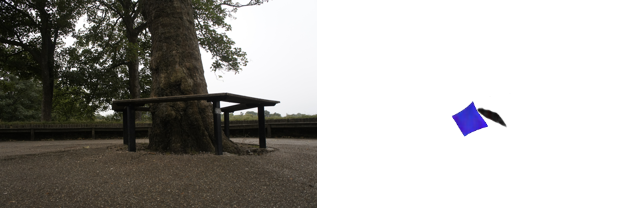
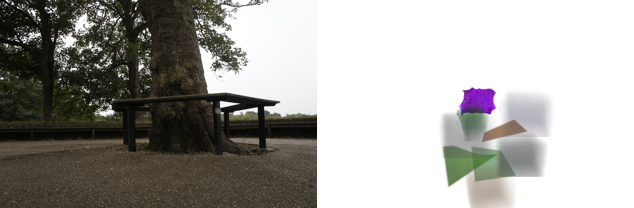
partial implementation

Changed region(s): [[0.6893, 0.4038, 0.8691, 1.0]]

diff --git a/gaussian_splatting_copy/neural_lifecycle.py b/gaussian_splatting_copy/neural_lifecycle.py
@@ -403,14 +403,21 @@ def split_top_slices(
     mode_selector=None,
 ):
     """
-    Split the highest-scoring slices.
+    Split highest-scoring parent slices.
 
-    Parent is removed and replaced by two smaller children.
+    Each selected parent is replaced by two children.
+    Every non-selected slice is preserved.
 
     Returns:
-        list of indices that were split
+        selected: list of original parent indices that were split.
     """
-    if len(neural_scene.slices) >= max_total_slices:
+    old_slices = list(neural_scene.slices)
+    num_old_slices = len(old_slices)
+
+    if num_old_slices == 0:
+        return []
+
+    if num_old_slices >= max_total_slices:
         return []
 
     scores = score_slices_for_split(
@@ -420,57 +427,96 @@ def split_top_slices(
         min_patch_size=min_patch_size,
     )
 
-    ranked = sorted(
+    ranked_indices = sorted(
         range(len(scores)),
-        key=lambda i: scores[i],
+        key=lambda index: scores[index],
         reverse=True,
+    )
+
+    # Each parent replaced by two children adds one net slice.
+    available_splits = max_total_slices - num_old_slices
+    num_to_select = min(
+        int(max_splits),
+        available_splits,
     )
 
     selected = []
 
-    available_splits = min(
-        max_splits,
-        max_total_slices - len(neural_scene.slices),
-    )
-
-    for i in ranked:
-        if len(selected) >= available_splits:
+    for index in ranked_indices:
+        if len(selected) >= num_to_select:
             break
 
-        if not math.isfinite(scores[i]):
+        score = scores[index]
+
+        if not math.isfinite(score):
             continue
 
-        if scores[i] <= 0.0:
+        if score <= 0.0:
             continue
 
-        selected.append(i)
+        selected.append(index)
 
     if not selected:
         return []
 
+    selected_set = set(selected)
+
+    print(
+        "[split_top_slices] "
+        f"old_count={num_old_slices}, "
+        f"selected={sorted(selected_set)}"
+    )
+
     new_slices = []
 
-    for i, neural_slice in enumerate(neural_scene.slices):
-        if i in selected:
-            child_a, child_b = split_slice(
-                neural_slice,
+    # IMPORTANT:
+    # This loop preserves every non-selected old slice.
+    for parent_index, parent in enumerate(old_slices):
+        if parent_index not in selected_set:
+            new_slices.append(parent)
+            continue
+
+        # Parent is selected: replace it with two children.
+        child_a, child_b = split_slice(parent)
+
+        if mode_selector is not None:
+            selected_children = mode_selector(
+                parent_index=parent_index,
+                child_a=child_a,
+                child_b=child_b,
             )
-        
-            # Optional surface/volume selection supplied by the
-            # training script. Keeps lifecycle.py renderer-independent.
-            if mode_selector is not None:
-                child_a, child_b = mode_selector(
-                    parent_index=i,
-                    child_a=child_a,
-                    child_b=child_b,
+
+            if (
+                not isinstance(selected_children, tuple)
+                or len(selected_children) != 2
+            ):
+                raise RuntimeError(
+                    "mode_selector must return "
+                    "(child_a, child_b)."
                 )
-        
-            new_slices.extend([
-                child_a,
-                child_b,
-            ])
+
+            child_a, child_b = selected_children
+
+        new_slices.append(child_a)
+        new_slices.append(child_b)
+
+    expected_count = num_old_slices + len(selected)
+
+    if len(new_slices) != expected_count:
+        raise RuntimeError(
+            "Split produced wrong number of slices: "
+            f"old={num_old_slices}, "
+            f"num_split={len(selected)}, "
+            f"expected={expected_count}, "
+            f"actual={len(new_slices)}"
+        )
 
     neural_scene.slices = nn.ModuleList(new_slices)
+
+    print(
+        "[split_top_slices] "
+        f"new_count={len(neural_scene.slices)}"
+    )
 
     return selected
 

diff --git a/gaussian_splatting_copy/optimize_neural_scene_random_init.py b/gaussian_splatting_copy/optimize_neural_scene_random_init.py
@@ -1202,8 +1202,7 @@ def score_child_pair_modes(
 
         total_loss += image_loss(
             predicted_rgba,
-            target_rgb,
-            BACKGROUND_RGB,
+            target_rgb
         ).item()
 
     return (
